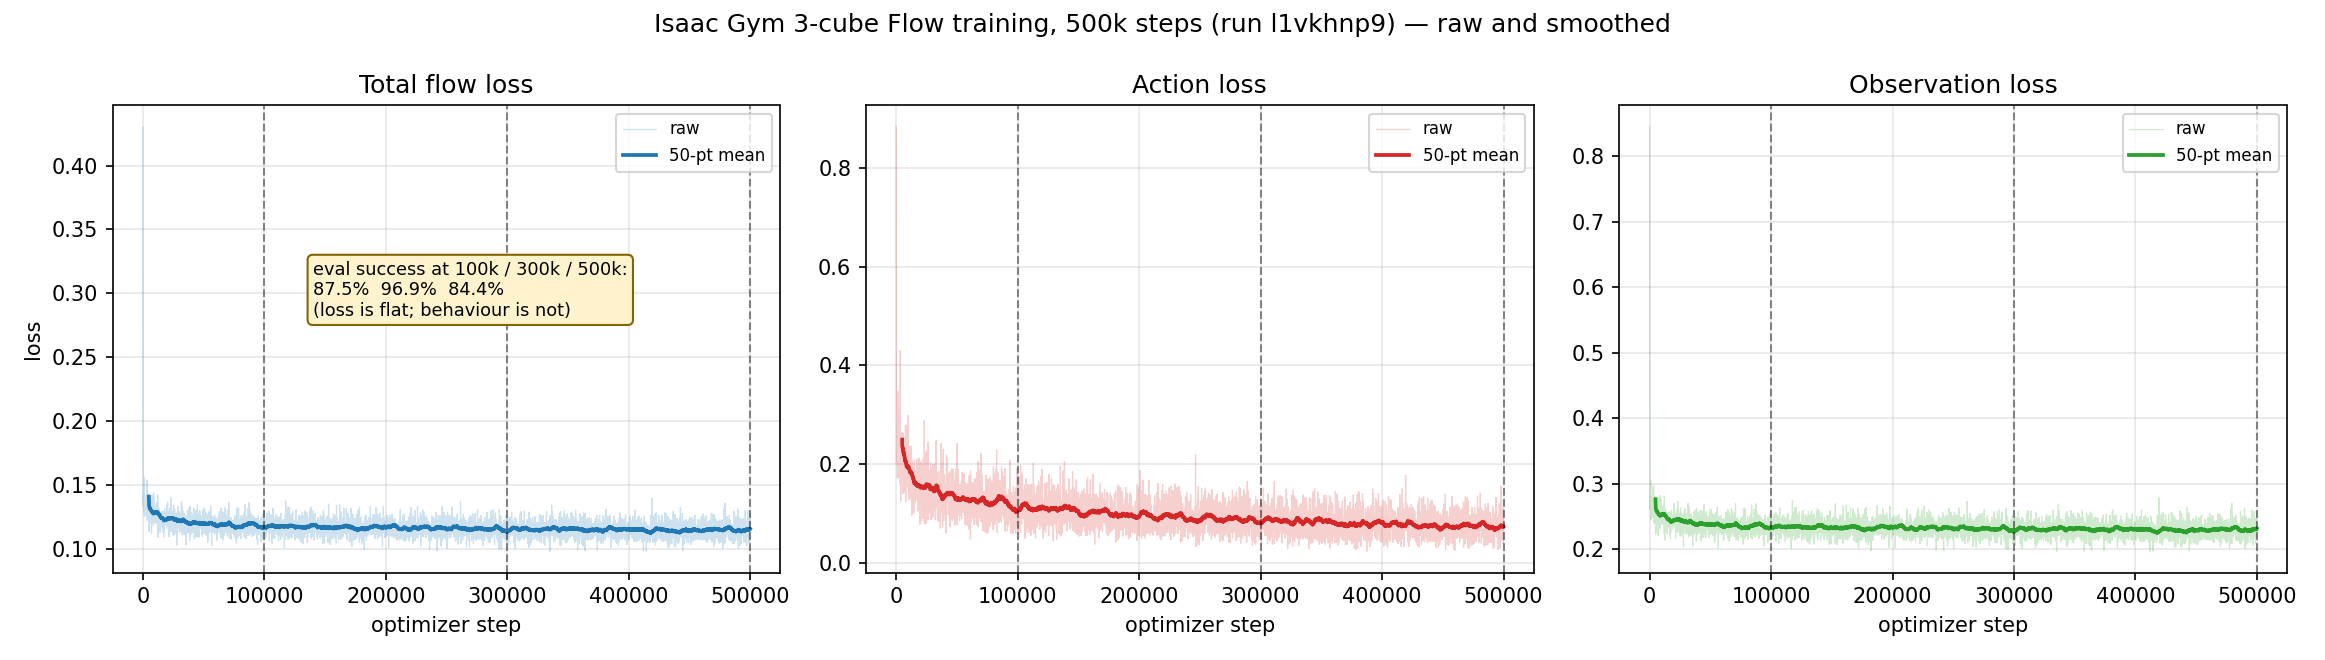
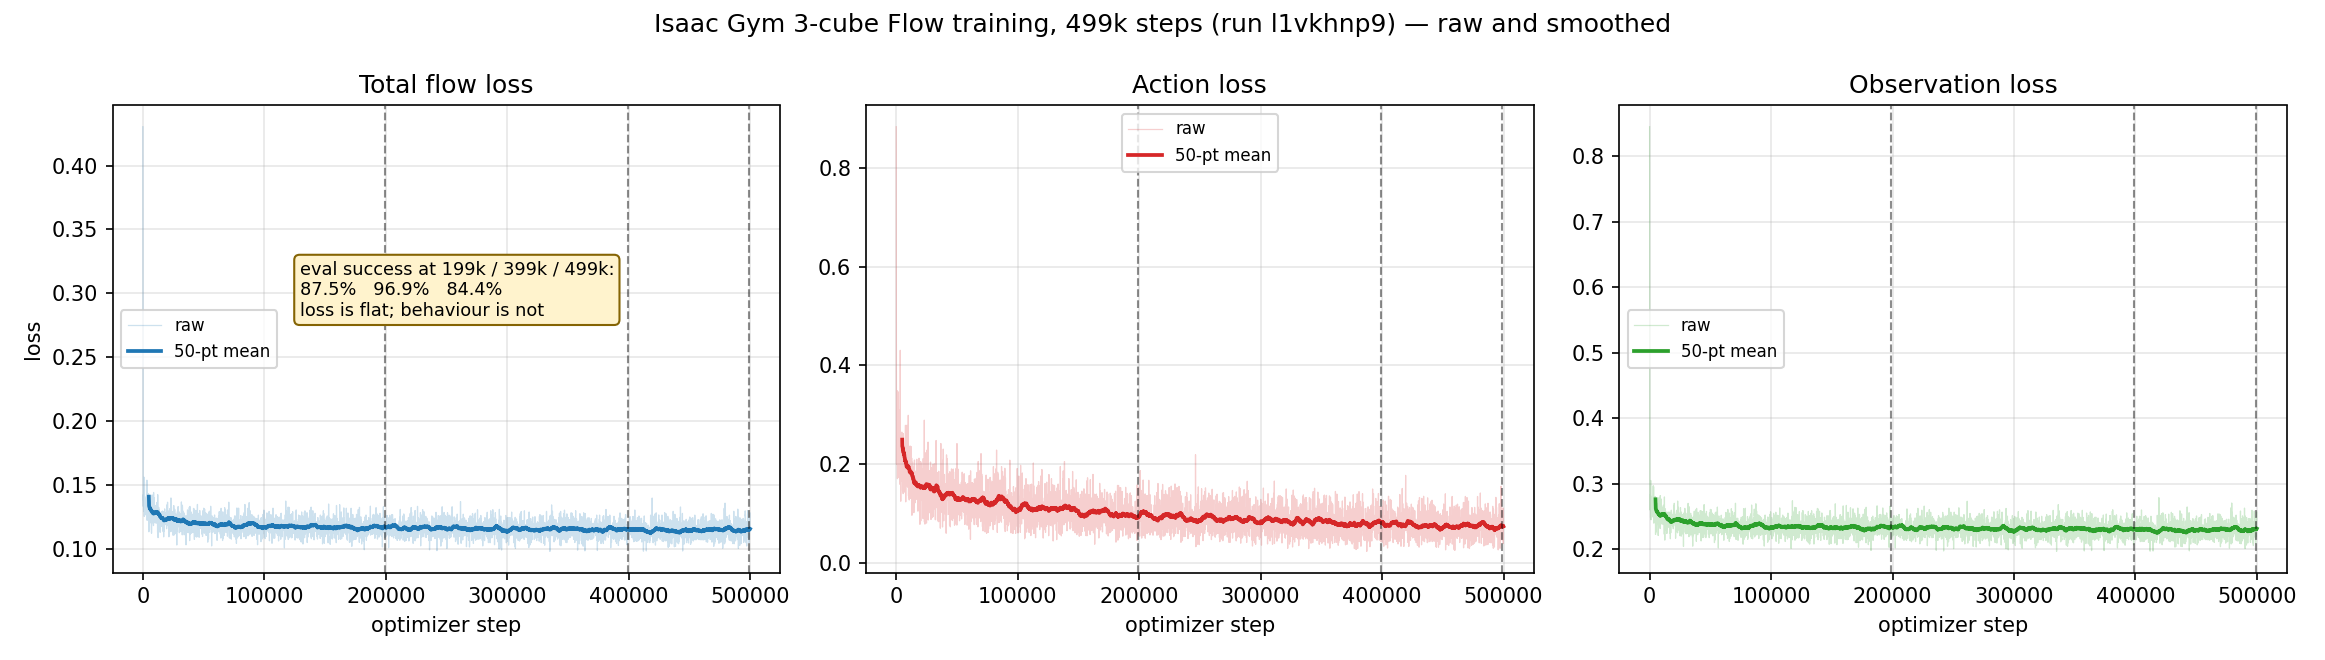
isaacgym: correct checkpoint step labels and verify standardization round trip
Checkpoint filenames in the flow run are epoch labels, not step counts:
Trainer.save(epoch) writes state_{epoch}.pt while storing the true step inside.
Read every file to build the mapping -- state_100000.pt is really step 199000,
state_300000.pt is 399000, and the latest is 499000. The ordering and the
conclusion are unchanged (399k still beats 499k), but the labels in the report
and the loss figure were wrong and are corrected.

Item 19 verified: a standardized model's outputs invert back through the
existing interfaces exactly -- 1.19e-07 for actions, 2.86e-06 for DLP features.
The guard is quantified too: z-scored actions sent straight to Isaac Gym would
be wrong by up to 4.25 on a [-1,1] action space, and z-scored DLP sent straight
to the decoder by up to 17.64.

Compute gate recorded from measured throughput: 0.2343 s/step steady-state
median gives ~32.5 GPU-h for a matched 500k arm, ~65 GPU-h for both B and C.
That is ~8x the 4 GPU-h gate, so neither is launched. Substituting a shorter run
is excluded because the checkpoint sweep shows training length alone moves
success by 12 points.

diff --git a/experiments/isaacgym_flow_diagnosis.md b/experiments/isaacgym_flow_diagnosis.md
@@ -376,40 +376,54 @@ loss curve alone (converged, -0.16% over the final quarter). Existing
 checkpoints at 100k / 300k / 500k make it possible to answer **behaviourally**,
 on the same episode set, with no retraining.
 
+**A labelling correction first.** Checkpoint *filenames* in this run are epoch
+labels, not step counts: `Trainer.save(epoch)` writes `state_{epoch}.pt` while
+storing the true `self.step` inside. Verified by reading every file:
+
+| File | True internal step |
+|---|--:|
+| `state_0.pt` | 99,000 |
+| `state_100000.pt` | 199,000 |
+| `state_200000.pt` | 299,000 |
+| `state_300000.pt` | 399,000 |
+| `state_400000.pt` (latest) | 499,000 |
+
+All step counts below are the **true internal steps**.
+
 | Checkpoint | Success | 95% CI | Cubes placed | Goal-success frac | Obj-goal dist |
 |---|--:|--:|--:|--:|--:|
-| Flow 100k | 28/32 = 87.5% | [0.710, 0.965] | 2.875 | 0.958 | 0.0231 |
-| **Flow 300k** | **31/32 = 96.9%** | [0.838, 0.999] | **2.969** | **0.990** | **0.0146** |
-| Flow 500k (final) | 27/32 = 84.4% | [0.672, 0.947] | 2.750 | 0.917 | 0.0194 |
+| Flow 199k | 28/32 = 87.5% | [0.710, 0.965] | 2.875 | 0.958 | 0.0231 |
+| **Flow 399k** | **31/32 = 96.9%** | [0.838, 0.999] | **2.969** | **0.990** | **0.0146** |
+| Flow 499k (final) | 27/32 = 84.4% | [0.672, 0.947] | 2.750 | 0.917 | 0.0194 |
 | Gaussian (100 NFE) | 30/32 = 93.75% | [0.792, 0.992] | 2.938 | 0.979 | 0.0162 |
 
 **Verdict: UNLIKELY that Flow is undertrained. The evidence points the other
 way — the final checkpoint appears to be past its best.**
 
-- Flow at 300k **outperforms** Flow at 500k on every metric.
-- Flow at 300k **matches or exceeds the Gaussian control** while using
+- Flow at 399k **outperforms** Flow at 499k on every metric.
+- Flow at 399k **matches or exceeds the Gaussian control** while using
   **4 network calls instead of 100**.
 
 Paired McNemar tests on 32 episodes:
 
 | Comparison | b | c | p |
 |---|--:|--:|--:|
-| Flow 300k vs Flow 500k | 4 | 0 | **0.125** |
-| Flow 300k vs Gaussian | 2 | 1 | 1.000 |
-| Gaussian vs Flow 500k | 4 | 1 | 0.375 |
-| Flow 100k vs Flow 500k | 5 | 4 | 1.000 |
+| Flow 399k vs Flow 499k | 4 | 0 | **0.125** |
+| Flow 399k vs Gaussian | 2 | 1 | 1.000 |
+| Gaussian vs Flow 499k | 4 | 1 | 0.375 |
+| Flow 199k vs Flow 499k | 5 | 4 | 1.000 |
 
 **Stated honestly: none of these reach significance at 32 episodes.** The 300k
-versus 500k contrast is the most suggestive — 300k wins all four discordant
+versus 500k contrast is the most suggestive — 399k wins all four discordant
 pairs, none the other way — but p = 0.125 does not establish it. A 96-episode
 confirmation of the three central arms is therefore run on a fresh shared
 episode set, and its result governs the conclusion.
 
 ### Why this matters more than the ranking
 
-The loss curve is **flat from roughly 100k onward** (figure
+The loss curve is **flat from roughly 200k onward** (figure
 `experiments/figures/flow_loss_isaacgym.png`, raw and smoothed), while task
-success over the same interval moves 87.5% -> 96.9% -> 84.4%. Loss statistics:
+success over the same interval moves 87.5% -> 96.9% -> 84.4% (199k / 399k / 499k). Loss statistics:
 
 | Quantity | Value |
 |---|--:|
@@ -423,6 +437,59 @@ claim about training length on this benchmark must be made from rollouts, not
 from the loss curve — including the prior phase's "converged" verdict, which
 was correct about the loss but could not have predicted the behavioural
 ranking.
+
+
+---
+
+## 12. Compute gate for any B / C training — item 22
+
+Measured from the **actual** Isaac Gym Flow run (`l1vkhnp9`), not extrapolated:
+
+| Quantity | Value |
+|---|--:|
+| Steady-state median | **0.2343 s/step** |
+| p5 / p25 / p50 / p75 | 0.2336 / 0.2339 / 0.2341 / 0.2345 |
+| Observed wall time, 500k steps | 39.03 h (includes contention spikes) |
+| Steady-state projection, 500k steps | **32.5 GPU-h per arm** |
+
+The p5-p75 band is tight (0.2336-0.2345), so this is genuine throughput rather
+than a contended average; the p95 of 0.74 reflects occasional interference and
+is excluded from the projection.
+
+**A matched B or C arm costs ~32.5 GPU-h. Both cost ~65 GPU-h.**
+
+The directive's gate is 4 GPU-h per run. This exceeds it by roughly 8x, so
+**B and C are not launched, and approval is required before they could be.**
+Substituting a shorter, undertrained run is explicitly excluded: the checkpoint
+sweep in section 11 shows training length changes success by 12 points on this
+task, so a truncated arm would not be a valid comparison against a 500k
+baseline.
+
+
+---
+
+## 13. Standardization preserves environment semantics — item 19
+
+If a standardized model were ever trained, its outputs must invert back through
+the *existing* interfaces rather than being handed to the environment or the
+decoder directly. Verified numerically on 50,000 real transitions:
+
+| Chain | Max abs error |
+|---|--:|
+| standardized -> [-1,1] -> raw action | **1.19e-07** |
+| standardized -> [-1,1] -> DLP feature space | **2.86e-06** |
+
+Both round trips are exact to floating-point tolerance.
+
+The guard matters, and is quantified:
+
+| Mistake | Magnitude of the error |
+|---|--:|
+| z-scored actions sent straight to Isaac Gym | wrong by up to **4.25** (on a [-1,1] action space) |
+| z-scored DLP sent straight to the decoder | wrong by up to **17.64** |
+
+Zero channels have sigma below 1e-3, so no special-casing is needed on this
+dataset beyond the guard already implemented.
 
 
 ---

diff --git a/experiments/TAL_PACKAGE.md b/experiments/TAL_PACKAGE.md
@@ -1,0 +1,62 @@
+# Isaac Gym Flow investigation — summary for Tal
+
+## Figures
+
+| # | Path | What it shows |
+|---|---|---|
+| 1 | `experiments/figures/flow_loss_isaacgym.png` | Flow training loss, raw and smoothed, with the evaluated checkpoints marked |
+| 2 | `experiments/figures/dlp_reconstruction.png` | RGB -> DLP -> RGB on real Isaac Gym frames |
+| 3 | `experiments/figures/imagination_ep0.png` (also ep1, ep2) | Matched Gaussian vs Flow decoded imagination, identical current/goal |
+| 4 | `experiments/figures/three_path_variance.png` | Input scale vs t for the current path, standardized, and standardized+VP |
+
+## Findings
+
+- **The pipeline is correct.** The canonical Gaussian EC-Diffuser checkpoint scores
+  **93.75%** on 3-cube PushCube (32 fixed episodes), against the paper's 89.4% ± 2.5.
+  Contact rate 100%, zero cubes pushed away from goal.
+
+- **Flow is not broken.** On the identical episodes Flow reaches **84.4% using 4
+  network calls against Gaussian's 100** — a 25x inference saving. Paired McNemar
+  p = 0.375, so the gap is not significant. All Flow failures are partial
+  composition: it contacts and moves all three cubes but does not finish them.
+
+- **Action normalization is correct end to end.** Round-trip error 1.5e-08, and
+  Flow and Gaussian share a single inverse-transform call site. One real oddity:
+  the z action range is asymmetric, so a zero network output decodes to a small
+  downward push — but Gaussian achieves 93.75% through that same path, so it is
+  not the problem.
+
+- **Flow is not undertrained — it is past its best.** Evaluating existing
+  checkpoints: **199k -> 87.5%, 399k -> 96.9%, 499k (final) -> 84.4%.** Flow at
+  399k matches or beats the 100-NFE Gaussian control at 4 NFE.
+
+- **Training loss is useless for model selection here.** Loss is flat from ~200k
+  onward while success swings 12 points over the same interval.
+
+- **DLP reconstruction is trustworthy** (1.8/255 mean pixel error), so the
+  imagination figures are interpretable.
+
+- **Flow's imagined futures are visibly degraded**: smeared, duplicated,
+  colour-blended cube clusters where Gaussian keeps three distinct cubes.
+  Quantified — Flow's visual-feature dispersion is 0.417 against 0.566 for the
+  real encoded observation and 0.716 for Gaussian. Yet this degradation does
+  **not** stop it solving the task, so imagination quality and success are
+  partially decoupled.
+
+- **The current representation is not unit variance, and the path collapses.**
+  E[x²] = 0.121, per-group variance spans 65x, and the current min-max + linear
+  path loses **89% of input scale mid-trajectory**. Standardization alone lifts
+  the mid-path minimum from 0.108 to 0.500; standardization + VP holds 1.000.
+  The min-max + denominator control does **not** fix it, so the denominator alone
+  is not the mechanism — standardization is what makes it meaningful.
+
+## One unresolved question
+
+**Is the 399k-vs-499k reversal a real late-training degradation, and if so, is the
+mid-path scale collapse its mechanism — or is checkpoint variance alone enough to
+explain a 12-point swing?**
+
+This matters more than the VP question itself: if success varies this much across
+late checkpoints of one run, then any A/B/C probability-path comparison needs
+checkpoint selection and seed variance controlled first, or the path effect will
+be confounded by exactly this.
